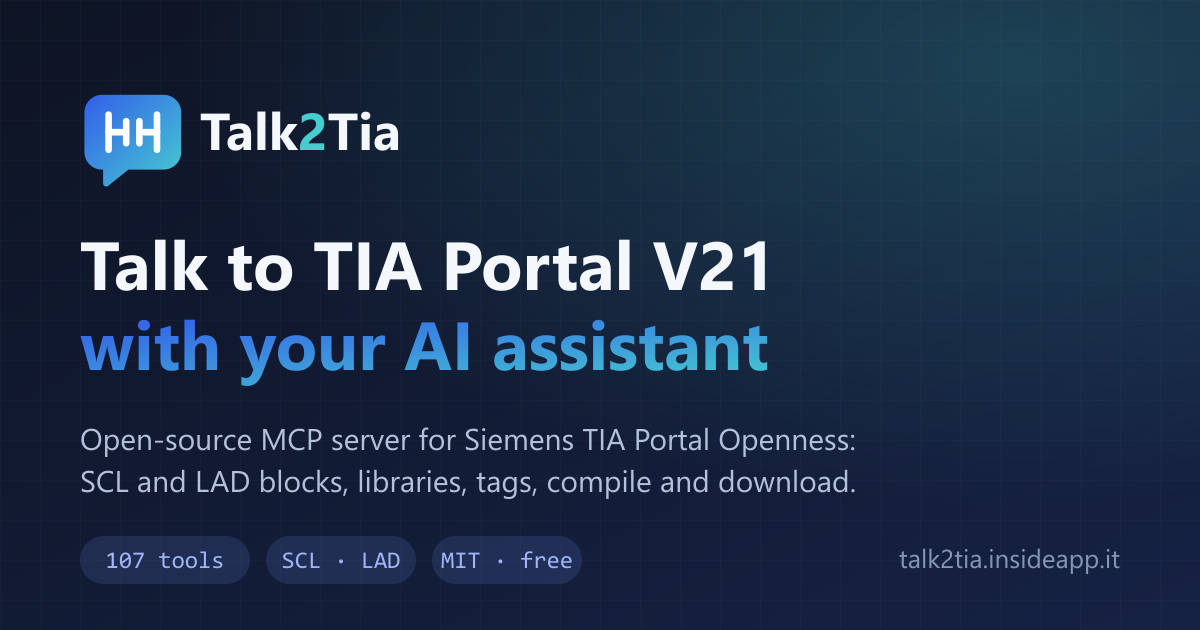
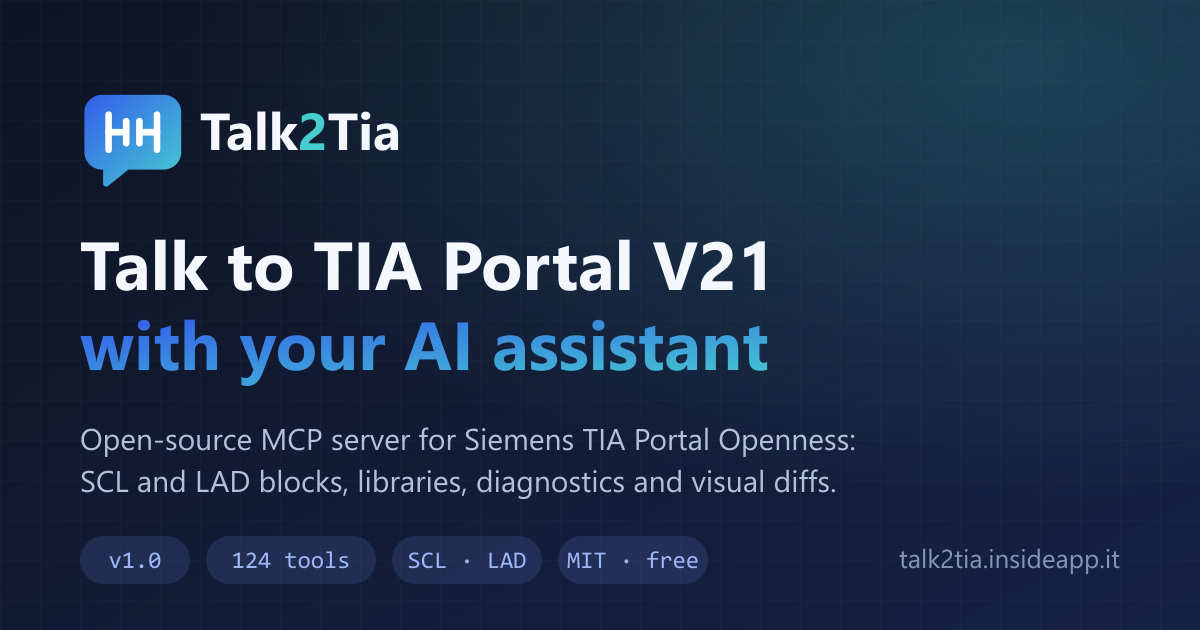
feat: Claude Desktop extension (.mcpb) and MCP Registry publishing; release v1.1.0 (#17)

Changed region(s): [[0.0925, 0.8444, 0.6167, 0.9349], [0.4008, 0.7238, 0.7092, 0.7841]]

diff --git a/site/src/i18n.ts b/site/src/i18n.ts
@@ -123,6 +123,7 @@ const en = {
     latest: 'Download the latest version',
     msi: 'Download Talk2Tia {version}',
     meta: 'Signed Windows installer (MSI, {size}) · released {date}',
+    mcpb: 'Claude Desktop extension (.mcpb)',
     portable: 'Portable zip',
     checksums: 'SHA-256 checksums',
     all: 'All releases',
@@ -309,6 +310,7 @@ const it: Dict = {
     latest: "Scarica l'ultima versione",
     msi: 'Scarica Talk2Tia {version}',
     meta: 'Installer Windows firmato (MSI, {size}) · pubblicato il {date}',
+    mcpb: 'Estensione Claude Desktop (.mcpb)',
     portable: 'Zip portabile',
     checksums: 'Checksum SHA-256',
     all: 'Tutte le release',

diff --git a/site/src/release.ts b/site/src/release.ts
@@ -17,6 +17,8 @@ export interface Release {
   date: string;
   msi: ReleaseAsset;
   portable?: ReleaseAsset;
+  /** One-click Claude Desktop extension. */
+  mcpb?: ReleaseAsset;
   checksums?: ReleaseAsset;
 }
 
@@ -52,6 +54,7 @@ async function fetchLatest(): Promise<Release | undefined> {
         date: r.published_at,
         msi,
         portable: asset((n) => n.endsWith('-portable.zip')),
+        mcpb: asset((n) => n.endsWith('.mcpb')),
         checksums: asset((n) => n === 'SHA256SUMS.txt'),
       };
     }

diff --git a/tests/Talk2Tia.Tests/FeedbackTests.cs b/tests/Talk2Tia.Tests/FeedbackTests.cs
@@ -9,7 +9,7 @@ namespace Talk2Tia.Tests;
 [Collection(OpennessCollection.Name)]
 public sealed class FeedbackTests
 {
-    private static readonly (string, string)[] Env = { ("Talk2Tia", "1.0.0"), ("Windows", "10.0") };
+    private static readonly (string, string)[] Env = { ("Talk2Tia", "1.1.0"), ("Windows", "10.0") };
 
     private static JsonElement Build(string kind, string description = "Steps: call it.", string? error = null) =>
         JsonSerializer.SerializeToElement(FeedbackReport.Build(kind, "plc_read_block fails", description, "plc_read_block", error, "Claude desktop", Env, connected: true));
@@ -22,7 +22,7 @@ public sealed class FeedbackTests
         var md = r.GetProperty("markdown").GetString()!;
         Assert.Contains("### What happened", md);
         Assert.Contains("`plc_read_block`", md);
-        Assert.Contains("- Talk2Tia: 1.0.0", md);
+        Assert.Contains("- Talk2Tia: 1.1.0", md);
         Assert.Contains("- MCP client: Claude desktop", md);
         var issue = r.GetProperty("githubIssueUrl").GetString()!;
         Assert.StartsWith(FeedbackReport.IssuesUrl + "?title=%5BBug%5D%20plc_read_block%20fails&labels=bug&body=", issue);

diff --git a/CHANGELOG.md b/CHANGELOG.md
@@ -8,6 +8,18 @@ Versions `0.x` were public betas; 1.0.0 is the first stable release.
 
 ## [Unreleased]
 
+## [1.1.0] - 2026-11-27
+
+### Added
+
+- One-click Claude Desktop extension: every release ships `talk2tia-<version>.mcpb` (MCP Bundle) with read-only mode
+  and toolsets as settings. The download section of the website links it.
+- Talk2Tia is published to the official MCP Registry as `io.github.insideapp-srl/talk2tia` by the release workflow.
+
+### Changed
+
+- Updated social preview image (v1.0, 124 tools).
+
 ## [1.0.0] - 2026-11-27
 
 First stable release. The tool names and parameters, the configuration file and the SIMATIC SD formats are now covered
@@ -151,7 +163,8 @@ First public beta.
 - Signed MSI installer and portable zip.
 - Website with documentation in English and Italian.
 
-[Unreleased]: https://github.com/insideapp-srl/talk2tia/compare/v1.0.0...HEAD
+[Unreleased]: https://github.com/insideapp-srl/talk2tia/compare/v1.1.0...HEAD
+[1.1.0]: https://github.com/insideapp-srl/talk2tia/compare/v1.0.0...v1.1.0
 [1.0.0]: https://github.com/insideapp-srl/talk2tia/compare/v0.13.0...v1.0.0
 [0.13.0]: https://github.com/insideapp-srl/talk2tia/compare/v0.12.0...v0.13.0
 [0.12.0]: https://github.com/insideapp-srl/talk2tia/compare/v0.11.0...v0.12.0

diff --git a/README.md b/README.md
@@ -10,7 +10,7 @@
 
 <p align="center">
   <img alt="Status: stable" src="https://img.shields.io/badge/status-stable-42ba96" />
-  <img alt="Version 1.0.0" src="https://img.shields.io/badge/version-1.0.0-335eea" />
+  <img alt="Version 1.1.0" src="https://img.shields.io/badge/version-1.1.0-335eea" />
   <img alt="TIA Portal V21" src="https://img.shields.io/badge/TIA%20Portal-V21-1b2a4e" />
   <img alt="License: MIT" src="https://img.shields.io/badge/license-MIT-42ba96" />
   <a href="https://ko-fi.com/insideappsrl"><img alt="Support on Ko-fi" src="https://img.shields.io/badge/support-Ko--fi-ff5e5b?logo=kofi&logoColor=white" /></a>
@@ -65,6 +65,8 @@ require explicit confirmation; a download never stops the CPU or re-initializes 
    ```powershell
    talk2tia --doctor
    ```
+   In **Claude Desktop** you can instead double-click `talk2tia-<version>.mcpb` from the release (one-click
+   extension, no MSI needed).
 3. Register the server in Claude Code:
    ```powershell
    claude mcp add talk2tia -- talk2tia

diff --git a/site/src/content/getting-started.it.md b/site/src/content/getting-started.it.md
@@ -63,7 +63,15 @@ MCP). Anche `portal_status` segnala l'aggiornamento disponibile, così l'assiste
 claude mcp add talk2tia -- talk2tia
 ```
 
-### Claude Desktop (`claude_desktop_config.json`)
+### Claude Desktop
+
+**Con un clic:** scarica `talk2tia-<versione>.mcpb` dall'[ultima release](https://github.com/insideapp-srl/talk2tia/releases/latest)
+e aprilo con un doppio clic (oppure *Impostazioni > Estensioni > Installa estensione*). L'estensione contiene Talk2Tia,
+quindi l'MSI non serve; nelle impostazioni trovi la modalità sola lettura e i gruppi di tool. Nell'estensione il
+controllo aggiornamenti di Talk2Tia è disattivato: per aggiornare installa il `.mcpb` della nuova release. Talk2Tia è
+anche nel [MCP Registry](https://registry.modelcontextprotocol.io) come `io.github.insideapp-srl/talk2tia`.
+
+**Configurazione manuale** (`claude_desktop_config.json`, con l'MSI installato):
 
 ```json
 {

diff --git a/CONTRIBUTING.md b/CONTRIBUTING.md
@@ -59,6 +59,9 @@ Maintainers release by pushing a `vX.Y.Z` tag on `main`, after bumping the versi
 website and `plugins/talk2tia/.claude-plugin/plugin.json` (Claude Code updates the plugin only when that version changes). The release workflow builds, tests, signs and publishes
 the installers. Versions follow SemVer from 1.0.0; unsigned test builds are published as pre-releases.
 
+Each release also builds `talk2tia-<version>.mcpb` (`build/mcpb.ps1`, manifest in `mcpb/manifest.json`) and publishes
+`mcpb/server.json` to the MCP Registry through GitHub OIDC (`registry` job).
+
 The installer shows the legal notice from `site/src/content/legal.*.md` and the MIT licence. After changing them, or the
 logos, regenerate `installer/assets` (`License.rtf`, `Dialog.bmp`, `Banner.bmp`, `talk2tia.ico`) with
 `node installer/assets/generate.mjs` (needs `npm ci` in `site` first).

diff --git a/docs/getting-started.md b/docs/getting-started.md
@@ -65,7 +65,15 @@ with `"trayIcon": false` and `"updates": "off"` in the configuration, or `TALK2T
 claude mcp add talk2tia -- talk2tia
 ```
 
-### Claude Desktop (`claude_desktop_config.json`)
+### Claude Desktop
+
+**One click:** download `talk2tia-<version>.mcpb` from the [latest release](https://github.com/insideapp-srl/talk2tia/releases/latest)
+and double-click it (or *Settings > Extensions > Install extension*). The extension contains Talk2Tia, so the MSI is
+not needed; its settings offer the read-only mode and the toolsets. Talk2Tia's own update check is off in the
+extension: install the `.mcpb` of a new release to update. Talk2Tia is also listed in the
+[MCP Registry](https://registry.modelcontextprotocol.io) as `io.github.insideapp-srl/talk2tia`.
+
+**Manual configuration** (`claude_desktop_config.json`, with the MSI installed):
 
 ```json
 {
